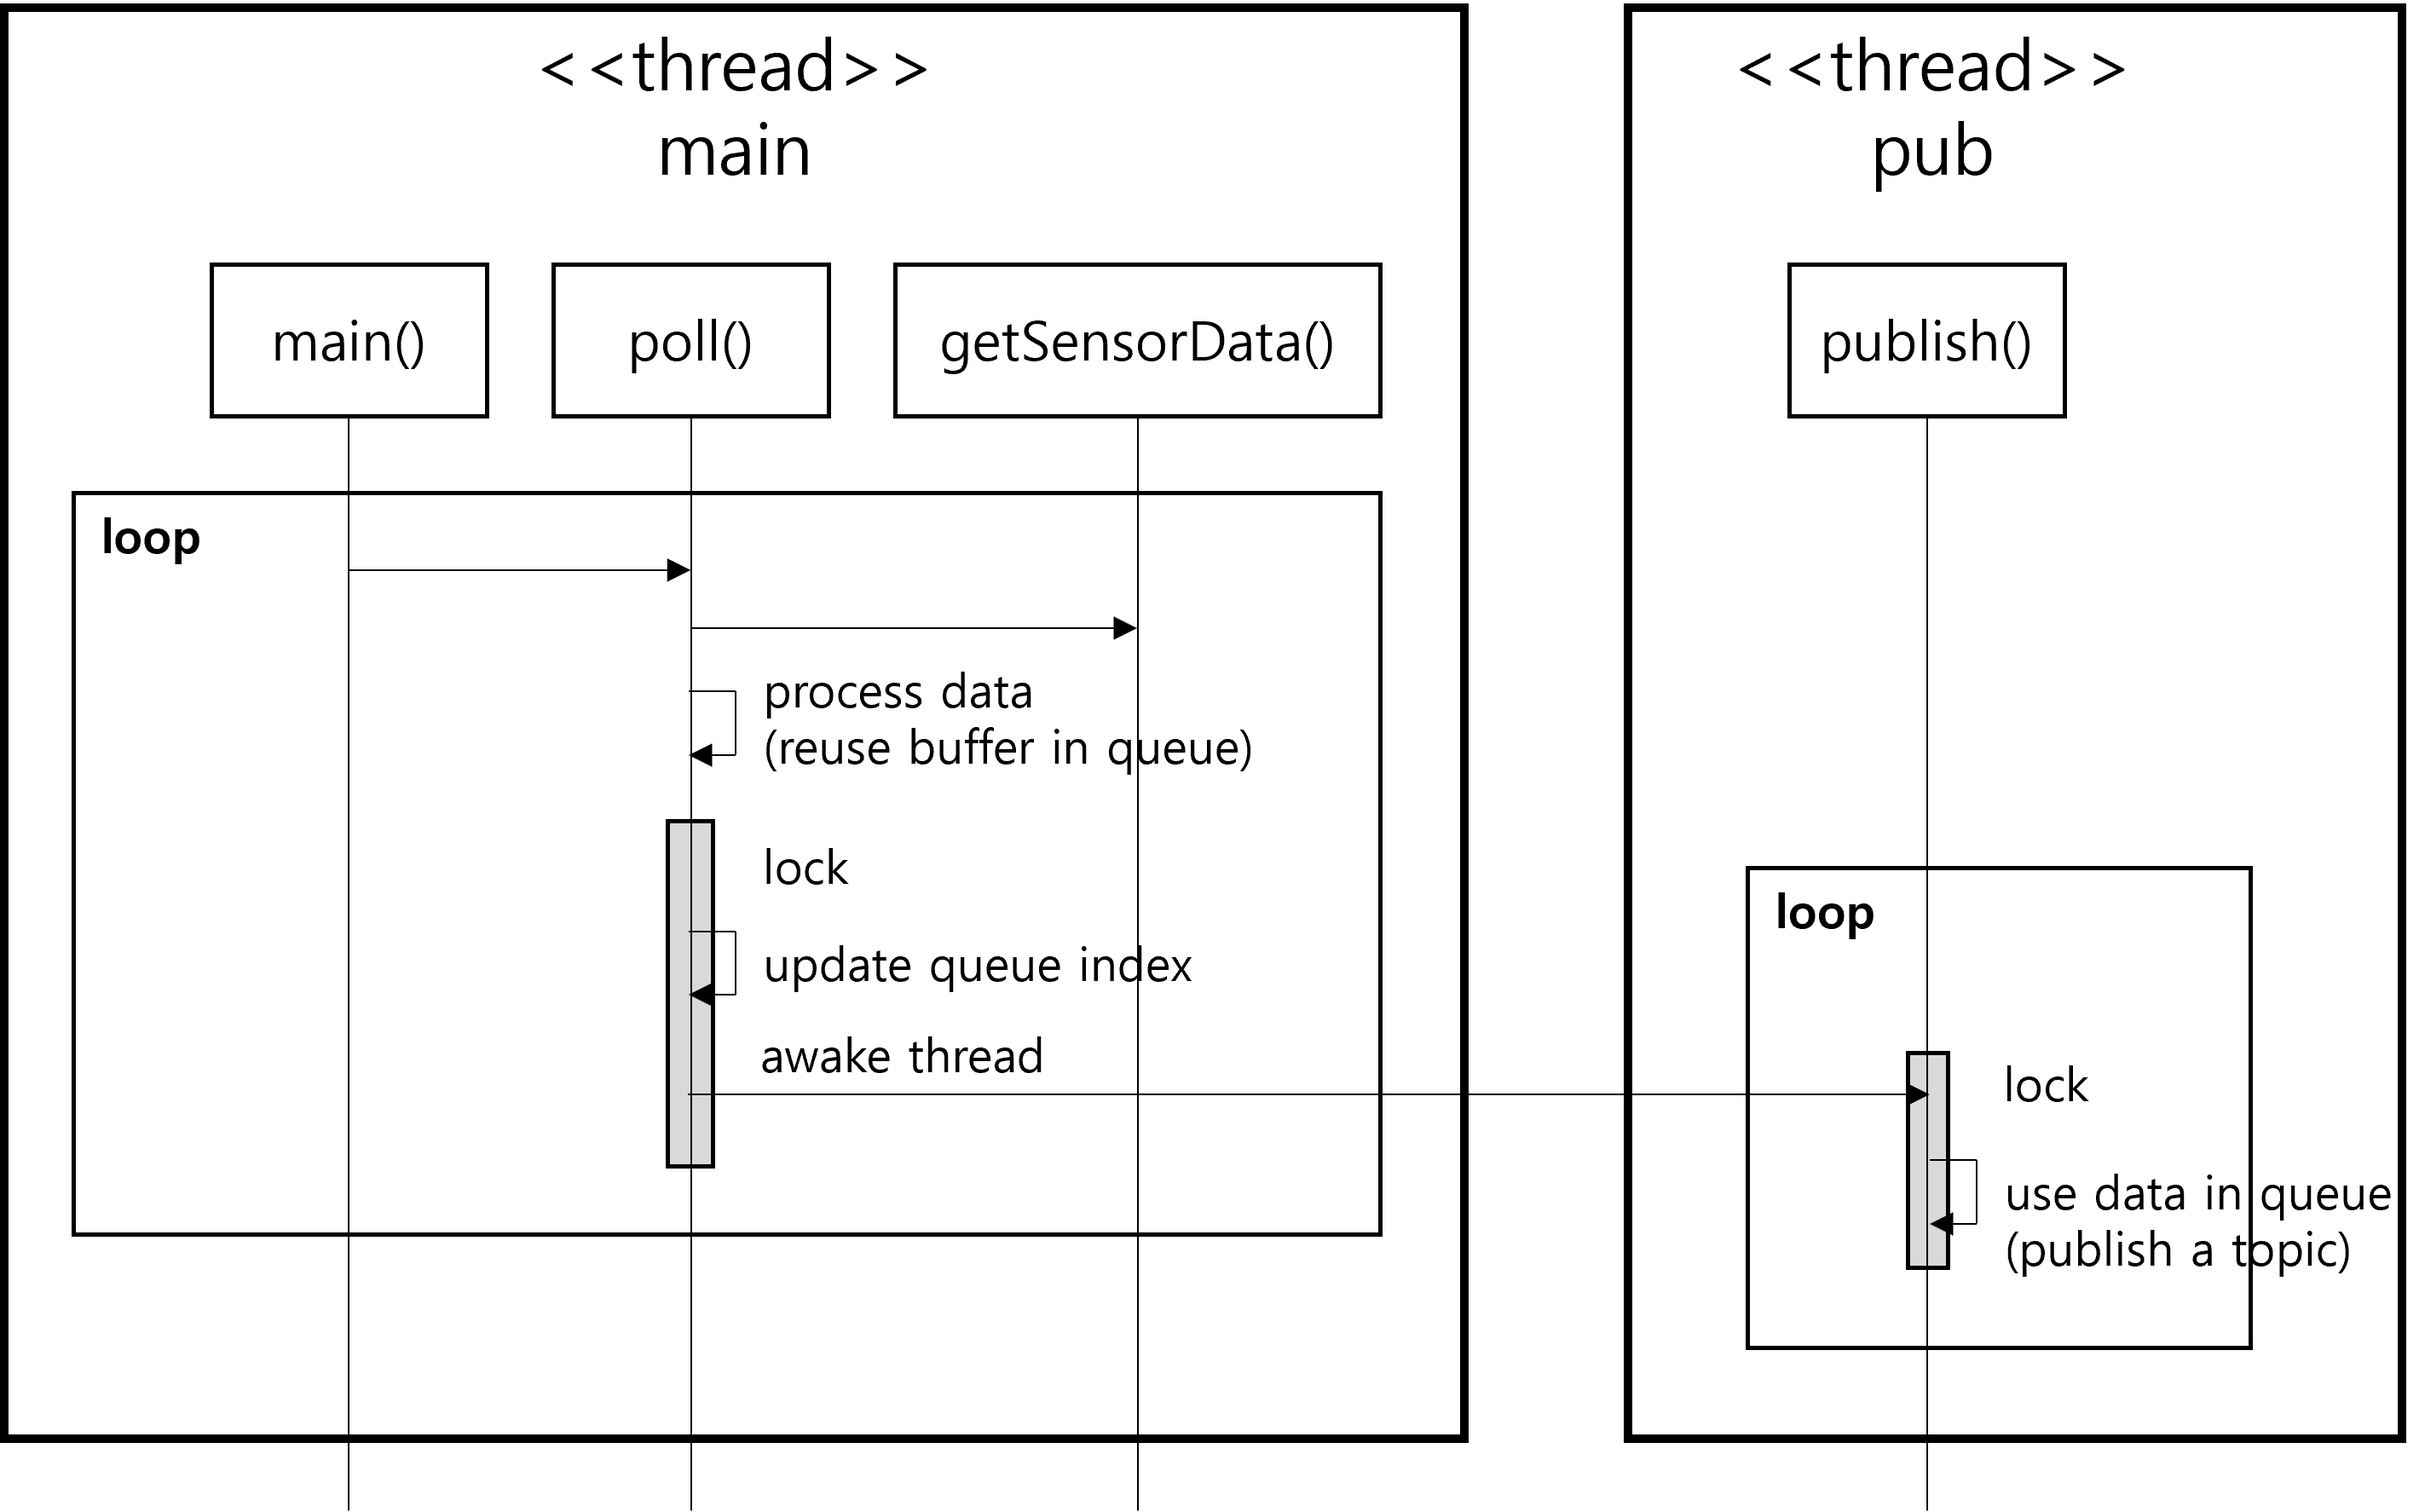
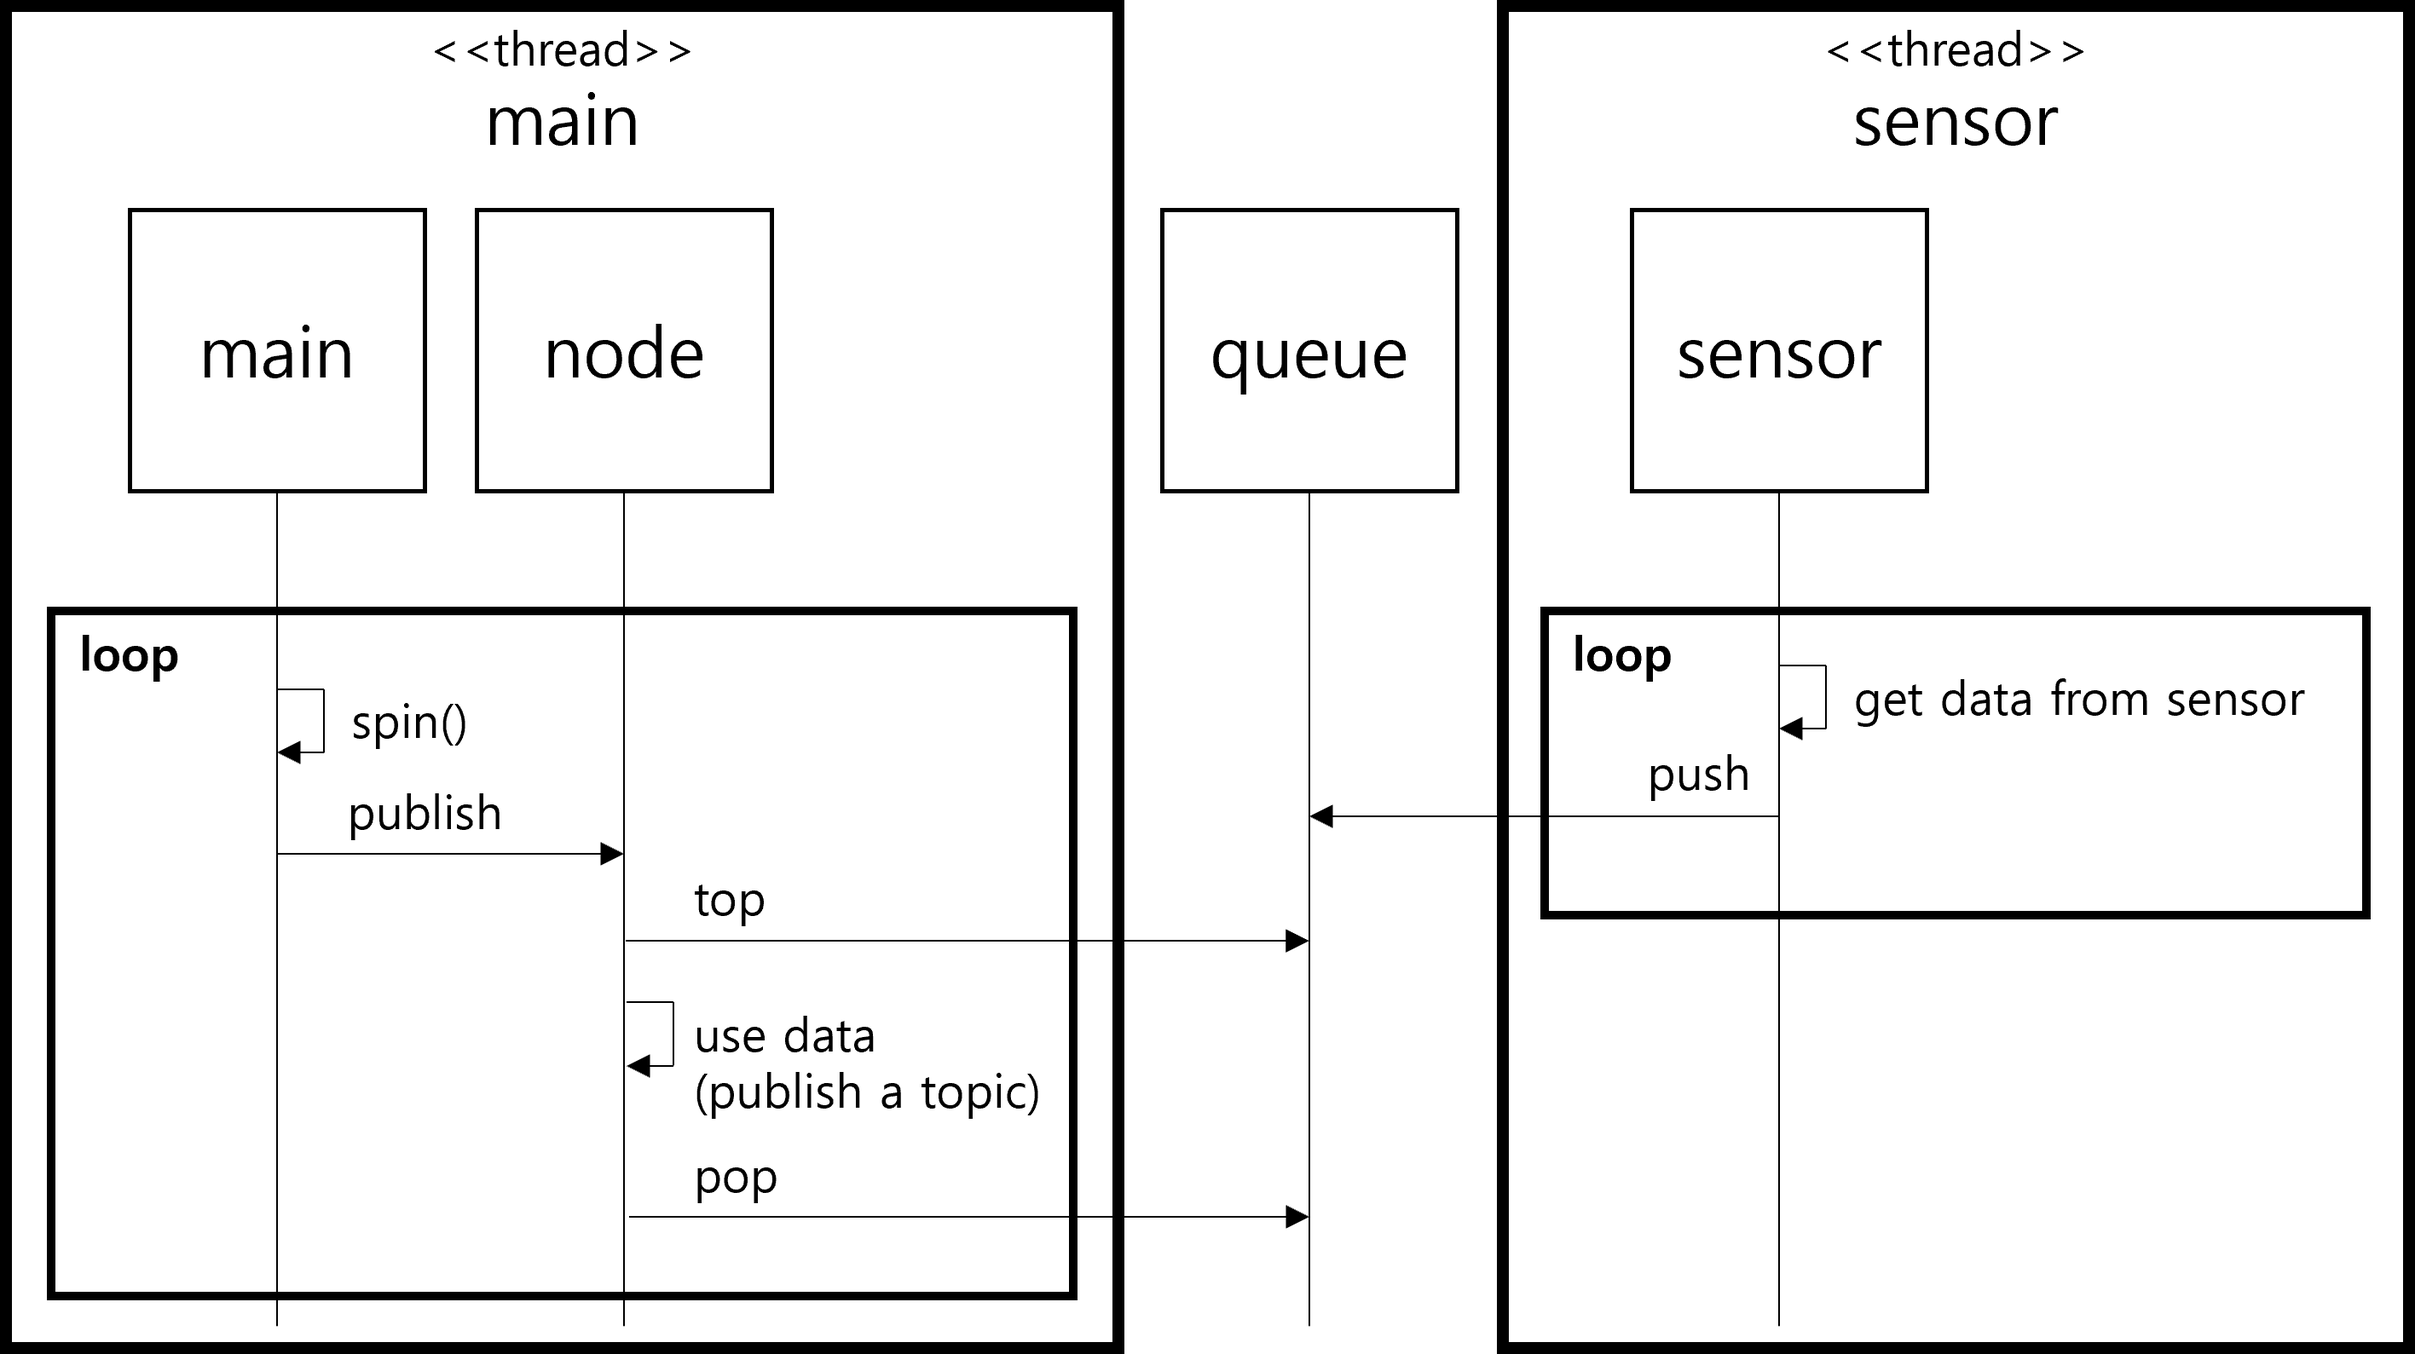
Enhanced design for easier maintenance

diff --git a/src/sensor.cpp b/src/sensor.cpp
@@ -1,58 +1,17 @@
 #include <iostream>
 
-#include "sensor.hpp"
+#include "Sensor.hpp"
 
-Data::Data(int data) : data(data) {}
-
-Data::Data(const Data& other) : data(other.data) {}
-
-Data& Data::operator=(int data) {
-    std::cout << "Data processed" << std::endl;
-    this->data = data;
-    return *this;
-}
-
-Data& Data::operator=(const Data& other) {
-    std::cout << "Data copied" << std::endl;
-    data = other.data;
-    return *this;
-}
-
-Data::operator int() const {
-    return data;
-}
-
-Sensor::Sensor() : data_ready(false) {}
+Sensor::Sensor(CircularQueue<int, Data>& queue) : queue(queue) {}
 
 void Sensor::init() {
-    publishThread = std::thread(&Sensor::publish, this);
-}
-
-int Sensor::getSensorData() {
-    int data;
-    std::cin >> data;
-    return data;
+    thread = std::thread(&Sensor::poll, this);
 }
 
 void Sensor::poll() {
-    queue[current] = getSensorData();
-
-    std::lock_guard<std::mutex> lock(data_mutex);
-    current = (current + 1) % size_of_queue;
-    data_ready = true;
-    data_cond.notify_one();
-}
-
-void Sensor::publish() {
-    while(true){
-        std::unique_lock<std::mutex> lock(data_mutex);
-        data_cond.wait(lock, [this] { return data_ready; });
-
-        // simulate as if it takes a long time.
-        // sleep for 2 second
-        std::this_thread::sleep_for(std::chrono::seconds(2));
-        int index = (current - 1 + size_of_queue) % size_of_queue;
-        std::cout << "publish topic - " << queue[index] << std::endl;
-        data_ready = false;
+    while (true) {
+        int data;
+        std::cin >> data;
+        queue.push(data);
     }
 }

diff --git a/inc/CircularQueue.hpp b/inc/CircularQueue.hpp
@@ -1,0 +1,53 @@
+#ifndef CIRCULARQUEUE_HPP
+#define CIRCULARQUEUE_HPP
+
+#include <mutex>
+
+// S: type of Sensor data
+// T: type of data in the queue
+template <typename S, typename T>
+class CircularQueue {
+public:
+    CircularQueue(const size_t& size) : head(0), tail(0), size(size) {
+        buffer = new T[size];
+    }
+
+    virtual ~CircularQueue() {
+        delete[] buffer;
+    }
+
+    bool isEmpty() const {
+        return head == tail;
+    }
+
+    bool push(const S& sensorData) {
+        buffer[tail] = sensorData;
+
+        std::lock_guard<std::mutex> lock(mutex);
+        tail = (tail + 1) % size;
+
+        return true;
+    }
+
+    const T& top() const {
+        return buffer[head];
+    }
+
+    bool pop() {
+        if (isEmpty()) {
+            return false;
+        }
+
+        std::lock_guard<std::mutex> lock(mutex);
+        head = (head + 1) % size;
+
+        return true;
+    }
+
+private:
+    T* buffer;
+    size_t head, tail, size;
+    std::mutex mutex;
+};
+
+#endif // CIRCULARQUEUE_HPP

diff --git a/inc/sensor.hpp b/inc/sensor.hpp
@@ -2,43 +2,21 @@
 #define SENSOR_HPP
 
 #include <thread>
-#include <mutex>
-#include <condition_variable>
 
-class Data {
-public:
-    Data(int data = 0);
-    Data(const Data& other);
-    Data& operator=(int data);
-    Data& operator=(const Data& other);
-    operator int() const;
-
-private:
-    int data;
-};
+#include "Data.hpp"
+#include "CircularQueue.hpp"
 
 class Sensor {
 public:
-    Sensor();
+    Sensor(CircularQueue<int, Data>& queue);
     void init();
 
+private:
     void poll();
-    void publish();
 
 private:
-    int getSensorData();
-
-private:
-    // simple circular queue
-    int current = 0;
-    const int size_of_queue = 5;
-    Data queue[5];
-
-    std::thread publishThread;
-
-    bool data_ready;
-    std::mutex data_mutex;
-    std::condition_variable data_cond;
+    CircularQueue<int, Data>& queue;
+    std::thread thread;
 };
 
 #endif // SENSOR_HPP

diff --git a/src/SensorNode.cpp b/src/SensorNode.cpp
@@ -1,0 +1,21 @@
+#include <iostream>
+
+#include "SensorNode.hpp"
+
+SensorNode::SensorNode(CircularQueue<int, Data>& queue) : queue(queue) {}
+
+bool SensorNode::publish() {
+    if (queue.isEmpty()) {
+        return false;
+    }
+
+    // simulate as if it takes a long time.
+    // sleep for 2 second
+    std::this_thread::sleep_for(std::chrono::seconds(2));
+
+    const Data& data = queue.top();
+    std::cout << "publish topic " << data << std::endl;
+    queue.pop();
+
+    return true;
+}

diff --git a/src/main.cpp b/src/main.cpp
@@ -1,13 +1,20 @@
 #include <iostream>
 
 #include "sensor.hpp"
+#include "SensorNode.hpp"
 
 int main() {
-    Sensor sensor;
+    CircularQueue<int, Data> queue(5);
+    SensorNode node(queue);
+    Sensor sensor(queue);
     sensor.init();
 
     while (true) {
-        sensor.poll();
+        // instead of rclcpp::spin_some(node);
+        // thread sleep for 10ms
+        std::this_thread::sleep_for(std::chrono::milliseconds(10));
+
+        node.publish();
     }
 
     return 0;

diff --git a/src/Data.cpp b/src/Data.cpp
@@ -1,0 +1,23 @@
+#include <iostream>
+
+#include "Data.hpp"
+
+Data::Data(int data) : data(data) {}
+
+Data::Data(const Data& other) : data(other.data) {}
+
+Data& Data::operator=(int data) {
+    std::cout << "Data processed" << std::endl;
+    this->data = data;
+    return *this;
+}
+
+Data& Data::operator=(const Data& other) {
+    std::cout << "Data copied" << std::endl;
+    data = other.data;
+    return *this;
+}
+
+Data::operator int() const {
+    return data;
+}

diff --git a/inc/SensorNode.hpp b/inc/SensorNode.hpp
@@ -1,0 +1,18 @@
+#ifndef SENSORNODE_HPP
+#define SENSORNODE_HPP
+
+#include "Data.hpp"
+#include "CircularQueue.hpp"
+
+// it extends rclcpp::Node
+class SensorNode {
+public:
+    SensorNode(CircularQueue<int, Data>& queue);
+
+    bool publish();
+
+private:
+    CircularQueue<int, Data>& queue;
+};
+
+#endif // SENSORNODE_HPP

diff --git a/inc/Data.hpp b/inc/Data.hpp
@@ -1,0 +1,16 @@
+#ifndef DATA_HPP
+#define DATA_HPP
+
+class Data {
+public:
+    Data(int data = 0);
+    Data(const Data& other);
+    Data& operator=(int data);
+    Data& operator=(const Data& other);
+    operator int() const;
+
+private:
+    int data;
+};
+
+#endif // DATA_HPP

diff --git a/README.md b/README.md
@@ -6,7 +6,7 @@
 
 ![Flow Diagram](img/flow.png)
 
-Two threads are running concurrently and share data. But the created buffer in circular queue is re-used. Therefore, no more additional copy is required.
+Two threads are running concurrently and share data. The created buffer in the circular queue is re-used, so no additional copy is required.
 
 ```
 $ sensor-node
@@ -14,26 +14,47 @@ $ sensor-node
 Data processed
 2
 Data processed
-publish topic - 1
 3
 Data processed
+publish topic - 1
 publish topic - 2
 publish topic - 3
 ```
 
-## Design Issue
-Sensor object is executed by main-thread and pub-thread. poll() and getSensorData() should only be executed by main-thread, and publish() should only be executed by pub-thread. Since one object is used by multiple threads, it is easy to cause a racing condition by incorrectly using member variables and functions.
+## Design Consideration
+In the previous design, since the sensor object was shared between the main-thread and pub-thread, it is easy to make a mistake that causes a racing condition.
 
-This also violates SRP (Single Responsibility Principle) by not distinguishing between the responsibility of acquiring data from the sensor and the responsibility of publishing a topic.
+In the enhanced design, the main-thread is responsible for processing ROS messages and executing the node component. On the other hand, the sensor-thread acquires data from the sensor and transmits it to the main-thread. The roles of the components are clearly separated (Single Responsibility Principle), and the deployment on threads is also clearly distinguished.
+
+The sensor-thread pushes data to the queue and the main-thread pops data from the queue and processes it. In other words, sharing between threads is only done through the queue. This prevents racing conditions due to simultaneous access between threads.
+
+In the current implementation, the queue protects simultaneous access to head and tail with a mutex. Only the sensor-thread pushes and changes only tail value, and only the main-thread pops and changes only head value, so in this case, there is no problem even if a mutex is not used to lock.
+
+The component & connector view that explains the architecture described above can be drawn as follows.
+
+![Component & Connector View](img/component1.png)
+
+Here, the queue is a component that provides the way how the sensor and node transmit data, and it is not bad to specify it as a connector. As follows.
+
+![Component & Connector View](img/component2.png)
+
+The deployment of the components in the thread level is as follows.
 
 ![Deployment View](img/deployment.png)
+
+As you can see in the figure, the components executed by the threads are clearly separated, and it is also clearly shown that communication between threads goes through only the queue.
 
 ## Project Structure
 
 - `CMakeLists.txt`: CMake configuration file for building the project.
 - `inc/sensor.hpp`: Header file for the `Sensor` class.
+- `inc/SensorNode.hpp`: Header file for the `SensorNode` class.
+- `inc/Data.hpp`: Header file for the `Data` class.
+- `inc/CircularQueue.hpp`: Header file for the `CircularQueue` template class.
 - `src/main.cpp`: Main entry point of the program.
 - `src/sensor.cpp`: Implementation of the `Sensor` class.
+- `src/SensorNode.cpp`: Implementation of the `SensorNode` class.
+- `src/Data.cpp`: Implementation of the `Data` class.
 
 ## Building the Project
 
